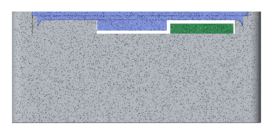
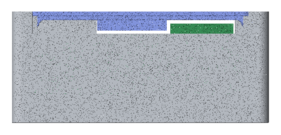
fix(case): 4 mm button-side wall; funnels on the button pin-holes
Print feedback: the lid came off too easily because the thin side walls
flexed and let the detents slip. The button-side wall now matches the
4 mm SMA side, grown outward (case 64 mm wide). The deeper pin-holes get a
90-degree funnel at the outer face so a pencil tip still finds them.

Claude-Session: https://claude.ai/code/session_01NRMLBLuUy5566yU1ZeqFdZ

diff --git a/case/tests/test_base.py b/case/tests/test_base.py
@@ -23,9 +23,9 @@ class TestDefaultBase:
         assert len(base.solids()) == 1
         assert base.is_valid
 
-    def test_has_the_outer_size_62_by_75_by_27_6(self, base):
+    def test_has_the_outer_size_64_by_75_by_27_6(self, base):
         bb = base.bounding_box()
-        assert bb.size.X == pytest.approx(62.0, abs=0.1)
+        assert bb.size.X == pytest.approx(64.0, abs=0.1)
         assert bb.size.Y == pytest.approx(75.0, abs=0.1)
         assert bb.size.Z == pytest.approx(27.6, abs=0.1)
         assert bb.min.Z == pytest.approx(board_z(0.0), abs=0.01)
@@ -105,6 +105,19 @@ class TestDefaultBase:
         assert not solid_bz(base, x, P.SMA_Y, zc + 2.5)
         assert solid_bz(base, x, P.SMA_Y, zc + 2.8)  # the flat
         assert solid_bz(base, x, P.SMA_Y + 3.5, zc)
+
+    def test_makes_the_whole_button_side_wall_4_mm_thick(self, base):
+        x = P.INNER[0] - P.BUTTON_WALL + 0.2
+        for y in (25.0, 45.0, 65.0):
+            assert solid_bz(base, x, y, 10.0)
+        assert not solid_bz(base, P.INNER[0] - P.BUTTON_WALL - 0.1, 45.0, 10.0)
+
+    def test_funnels_the_button_holes_at_the_outer_face(self, base):
+        b = P.FACTS["button_a"]
+        yc, zc = (b.y0 + b.y1) / 2, (b.z0 + b.z1) / 2
+        r = P.BUTTON_FUNNEL_D / 2
+        assert not solid_bz(base, P.OUTER[0] + 0.1, yc + r - 0.3, zc)  # funnel mouth
+        assert solid_bz(base, P.OUTER[0] + 1.5, yc + r - 0.3, zc)  # narrows to the hole
 
     def test_makes_the_whole_sma_side_wall_4_mm_thick(self, base):
         x = P.INNER[1] + P.SMA_WALL - 0.2

diff --git a/case/p4_case/params.py b/case/p4_case/params.py
@@ -29,7 +29,9 @@ HEADER_GAP = 2.5
 INNER = (-GAP, PCB_X1 + GAP, -GAP, PCB_Y1 + HEADER_GAP)  # x0, x1, y0, y1
 # the SMA side wall is twice as thick: the antenna levers on it (print feedback); it grows outward, the board is inside
 SMA_WALL = 4.0
-OUTER = (INNER[0] - WALL, INNER[1] + SMA_WALL, INNER[2] - WALL, INNER[3] + WALL)
+# the button side wall too: thin side walls flexed and let the lid's detents slip (print feedback)
+BUTTON_WALL = 4.0
+OUTER = (INNER[0] - BUTTON_WALL, INNER[1] + SMA_WALL, INNER[2] - WALL, INNER[3] + WALL)
 INNER_R = 2.0 + GAP  # board corner radius 2 + gap
 OUTER_R = 2.5  # outer vertical edges
 PLATE_T = 2.0  # case Z 0-2
@@ -83,6 +85,7 @@ HEADER_BODY_TOP = 2.5  # board Z where a plug seats (top of the header's plastic
 
 # --- buttons (5.2) ---
 BUTTON_HOLE_D = 2.5
+BUTTON_FUNNEL_D = 4.5  # 90-degree countersink at the outer face guides a pencil tip into the 4 mm-deep hole
 BUTTON_RECESS_X = -1.0  # left wall's inner face pulled back to here around the buttons
 BUTTON_RECESS_MARGIN = 0.5
 

diff --git a/case/p4_case/base.py b/case/p4_case/base.py
@@ -160,6 +160,16 @@ def _buttons() -> Part:
         cuts.append(
             x_cylinder(yc, zc, P.BUTTON_HOLE_D, P.OUTER[0] - 1, P.INNER[0] + EPS)
         )
+        depth = (
+            P.BUTTON_FUNNEL_D - P.BUTTON_HOLE_D
+        ) / 2  # 90 degrees: depth equals the radius step
+        funnel = Cone(
+            P.BUTTON_FUNNEL_D / 2,
+            P.BUTTON_HOLE_D / 2,
+            depth + EPS,
+            align=(Align.CENTER, Align.CENTER, Align.MIN),
+        )
+        cuts.append(Pos(P.OUTER[0] - EPS, yc, zc) * Rot(0, 90, 0) * funnel)
     return Part() + cuts
 
 

diff --git a/docs/superpowers/specs/2026-11-02-p4-case-design.md b/docs/superpowers/specs/2026-11-02-p4-case-design.md
@@ -96,11 +96,11 @@ the result.
 | Wall mounting | two L-shaped keyholes in the flat back plate, 32 mm apart, for either orientation |
 | Table | lies on its back; stick-on rubber feet optional, not modelled |
 | Cooling | honeycomb lid (about 60% open over the grille area) plus the header-end slot; no vents in the back plate or side walls |
-| Buttons | Ø2.5 pin-holes in the left wall on the plunger axes; a finger can't reach the plunger |
-| Wall / plate thickness | 2.0 mm, except the SMA side wall: 4.0 mm, grown outward (the antenna levers on it; print feedback); lid plate 2.0 mm |
+| Buttons | Ø2.5 pin-holes in the left wall on the plunger axes, with a 90° funnel (Ø4.5) at the outer face to guide a pencil tip through the 4 mm wall; a finger can't reach the plunger |
+| Wall / plate thickness | 2.0 mm, except both side walls: 4.0 mm, grown outward (print feedback: the antenna levered the SMA wall apart, and thin side walls flexed so the lid's detents slipped); lid plate 2.0 mm |
 | Clearance board ↔ inner wall | 0.5 mm, with a local recess at the buttons (see 5.2) |
 | Clearance over the tallest part | 1.0 mm (lid underside at board Z 17.0); the extra 0.5 mm leaves 1 mm of wall above the USB opening |
-| Outer size | about 62 × 75 × 27.6 mm |
+| Outer size | about 64 × 75 × 27.6 mm |
 | Printing | FDM, 0.4 mm nozzle, PETG recommended (the tabs flex), PLA acceptable; no supports; base prints back-plate down, lid prints top-face down |
 
 ## 5. Geometry
@@ -178,7 +178,8 @@ sits inside the walls (2 mm total), so its underside is at case Z 25.6.
     it: the 1 mm-thin recessed sections of the first print were unnecessary (print feedback). The 2.5 mm gap at the
     header end leaves room in that direction.
 - **Left wall (X = 0 edge, buttons):**
-  - Two Ø2.5 pin-holes on the plunger axes (Y 5.65 and 12.35 and the plunger's Z, taken from the model).
+  - Two Ø2.5 pin-holes on the plunger axes (Y 5.65 and 12.35 and the plunger's Z, taken from the model), each with a
+    90° funnel, Ø4.5 at the outer face.
   - The plungers sit only 0.15 mm from the inner face, so the inner face gets a shallow local recess around both buttons
     to keep ≥ 0.3 mm clearance as the board slides in. There are no guide tubes.
 - **Right wall (X = 55 edge, SMA):**

diff --git a/docs/case.md b/docs/case.md
@@ -90,7 +90,7 @@ make case-test    # the model's tests (about 1.5 min)
 5. **Opening:** lever the lid up through the grille with a small flat screwdriver, close to a corner.
 
 BOOT and RESET sit behind the two pin-holes on the left wall, near the cable end. Press them with a pencil or a small
-screwdriver.
+screwdriver; a small funnel at each hole's mouth guides the tip in.
 
 ## Mounting
 
